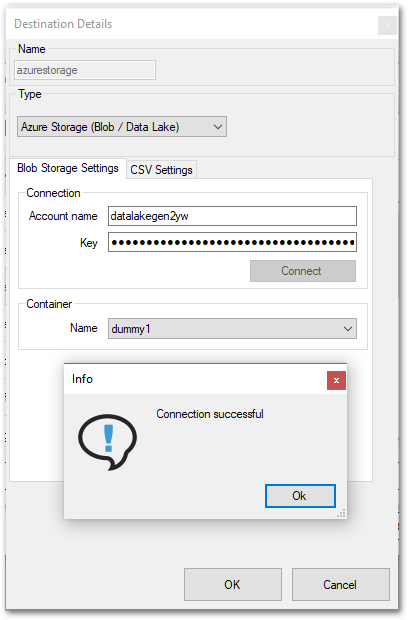
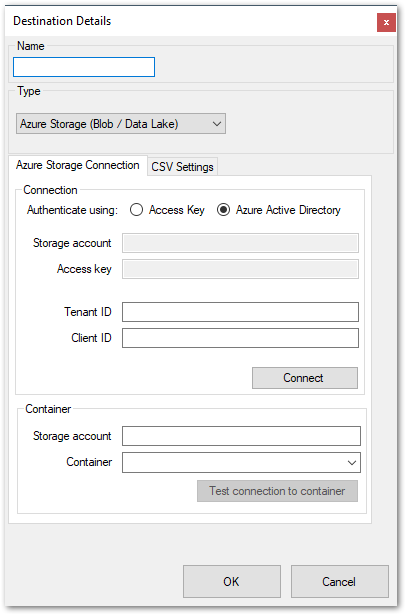
XU:EN:Azure Storage destination - OAuth 2.0

diff --git a/content/_en/xtract-universal/xu-destinations/azure-storage/blob-connection.md b/content/_en/xtract-universal/xu-destinations/azure-storage/blob-connection.md
@@ -11,18 +11,12 @@ lang: en_GB
 old_url: /Xtract-Universal-EN/default.aspx?pageid=blob-connection
 ---
 
-### Blob Storage Settings
 
-The following settings are required to connect to the Azure storage account. 
-The required input values can be determined from the Azure Portal.
-
-![azure-blob-access-keys](/img/content/azure-blob-access-keys.png){:class="img-responsive"}
-
-### Adding Azure Storage Destination
+### Adding an Azure Storage Destination
 1. In the main window of the Designer, navigate to **[Server] > [Manage Destinations]**. The window "Manage Destinations" opens.
 2. Click **[Add]** to add a new destination. The window "Destination Details" opens.
 ![XU_azure_Destination](/img/content/xu/azure_destination-det.png){:class="img-responsive"}
-3. Select the *Azure Storage* destination from the drop-down list.
+3. Select the *Azure Storage (Blob / Data Lake)* destination from the drop-down list.
 
 The window "Destination Details" consists of two tabs:
 - Blob Storage Settings
@@ -34,22 +28,110 @@ The tab *Blob Storage Settings* consists of two subsections:
 - Container
 ![xu-azure-blob-con-01](/img/content/xu-azure-blob-con-01_.png){:class="img-responsive"}
 
+The subsection *Connection* offers two different methods for authenticating and authorizing access to an Azure storage account:
+1. Authentication via Access Key
+2. Authentication via Azure Active Directory  
+
+### Authentication via Access Key
+This method of authentication authorizes access to the complete storage account. General information about this method of authentication can be found in the [Microsoft documentation](https://docs.microsoft.com/en-us/azure/storage/common/storage-account-keys-manage).
+
+
 #### Connection
-**Account name**<br>
+**Storage account**<br>
 Storage account name.
 
-**Key**<br>
+**Access key**<br>
 Access key of the Azure storage account.  
 
+{: .box-tip }
+Tip: Copy storage account name and access key from the [Azure portal](https://docs.microsoft.com/en-us/azure/storage/common/storage-account-keys-manage?toc=/azure/storage/blobs/toc.json#view-access-keys-and-connection-string).
+
+![xu-azure-blob-con-10](/img/content/xu-azure-blob-con-10.png){:class="img-responsive"}
+
 **Connect**<br>
-Button to establish a connection.<br>
+Button to establish a connection to the storage account.<br>
 If the connection is successful, a "Connection successful" info window opens. <br>
-Click **[OK]** to confirm.
+Click **[OK]** to confirm. <br>
+
 
 #### Container
-**Container**<br>
-Allows selecting a Blob container into which, the extracted data is written.
+This subsection is activated after a connection to the storage account has successfully been established.<br><br>
+**Storage account** <br>
+When authenticating with an access key, this field is deactivated for input.
 
+**Container**<br>
+When authenticating with an access key, a Blob container can be selected from the drop down menu.
+
+**Test connection to container**<br>
+Button to check if the storage container can be accessed. <br>
+If the connection is successful, a "Connection to container <*name of container*> successful" info window opens. <br>
+Click **[OK]** to confirm. <br>
+Got to the *CSV Settings* tab or click **[OK]**. The *Azure Storage (Blob / Data Lake)* destination can now be used.
+
+![xu-azure-blob-con-02](/img/content/xu-azure-blob-con-02_.png){:class="img-responsive"}
+
+
+### Authentication via Azure Active Directory
+This method uses OAuth 2.0 and Azure AD for authentication. Compared to *Authentication via Access Key*, it allows a more granular way of authorizing access to a storage account and its individual storage containers. General information about this method of authentication can be found in the [Microsoft documentation](https://docs.microsoft.com/en-us/azure/storage/common/storage-auth-aad-app).
+
+#### Prerequisites 
+
+{: .box-note }
+Note: Authentication via Azure Active Directory requires an Azure AD tenant. Setting up an Azure AD tenant is described in the [Microsoft documentation](https://docs.microsoft.com/en-us/azure/active-directory/develop/quickstart-create-new-tenant). 
+
+Before using this method of authentication, the following steps need to be performed on the Azure portal.
+1. On the Azure portal, open the *Azure Active Directory* service.
+2. Register an app with your Azure AD tenant. For doing so, follow the steps described in the [Microsoft documentation](https://docs.microsoft.com/en-us/azure/storage/common/storage-auth-aad-app#register-your-application-with-an-azure-ad-tenant). Register the app as *Public client/native (mobile & desktop)*.
+3. Add *API permissions* to the registered app to grant access to the Azure Storage web API. The following permissions are required: *Azure Storage - Delegated permissions - user impersonation*, *Microsot Graph - User.Read*. Follow the steps as outlined in the [Microsoft documentation](https://docs.microsoft.com/en-us/azure/storage/common/storage-auth-aad-app#grant-your-registered-app-permissions-to-azure-storage).
+4. On the Azure portal, open your Azure storage account.
+4. Assign access rights to the Azure storage as outlined in the [Microsoft documentation](https://docs.microsoft.com/en-us/azure/storage/common/storage-auth-aad-rbac-portal#assign-rbac-roles-using-the-azure-portal). The required RBAC role is *Storage Blob Data Contributor*.
+![xu-azure-blob-con-07](/img/content/xu-azure-blob-con-07.png){:class="img-responsive"}
+
+{: .box-tip }
+Tip: Access rights can be granted on storage account or on container level. 
+
+#### Connection
+**Tenant ID**<br>
+ID of the Azure AD tenant
+
+**Client ID**<br>
+ID of the registered app.
+
+{: .box-tip }
+Tip: Copy tenant ID and client ID from the Azure portal.
+
+![xu-azure-blob-con-08](/img/content/xu-azure-blob-con-08.png){:class="img-responsive"}
+
+
+
+**Connect**<br>
+Button to establish a connection to the storage account.<br>
+1. Click **[Connect]**
+2. A browser window pops up. Sign in using your Azure AD credentials.
+![xu-azure-blob-con-05](/img/content/xu-azure-blob-con-05.png){:class="img-responsive"}
+3. The *Permissions requested* windows lists the requested permissions (see above). Click **[Accept]**.
+![xu-azure-blob-con-06](/img/content/xu-azure-blob-con-06.png){:class="img-responsive"}
+4. If the connection is successful, a "Connection successful" info window opens. <br>
+Click **[OK]** to confirm. <br>
+
+#### Container
+This subsection is activated after a connection to the storage account has successfully been established.<br><br>
+**Storage account** <br>
+When authenticating via Azure Active directory, the storage account name must be entered here.
+
+**Container**<br>
+When authenticating via Azure Active directory, a Blob container must be entered here.
+
+{: .box-note }
+Note: With Azure Active directory authentication, the drop down menu is not supported. Enter the name of the Blob container manually.
+
+**Test connection to container**<br>
+Button to check if the storage container can be accessed. <br>
+If the connection is successful, a "Connection to container <*name of container*> successful" info window opens. <br>
+Click **[OK]** to confirm. <br>
+Got to the *CSV Settings* tab or click **[OK]**. The *Azure Storage (Blob / Data Lake)* destination can now be used.
+
+![xu-azure-blob-con-09](/img/content/xu-azure-blob-con-09.png){:class="img-responsive"}
 
 ### CSV Settings
 
